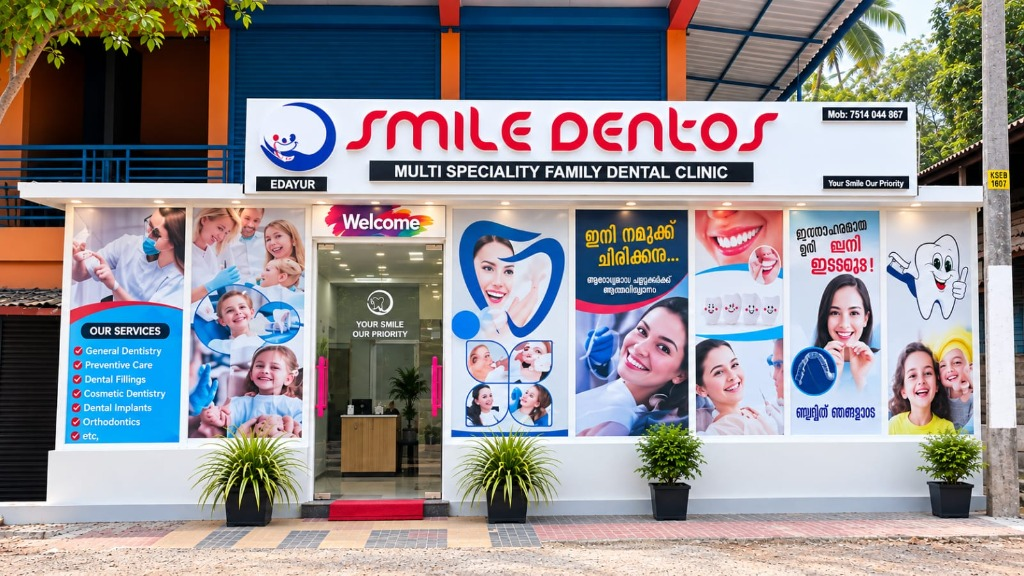
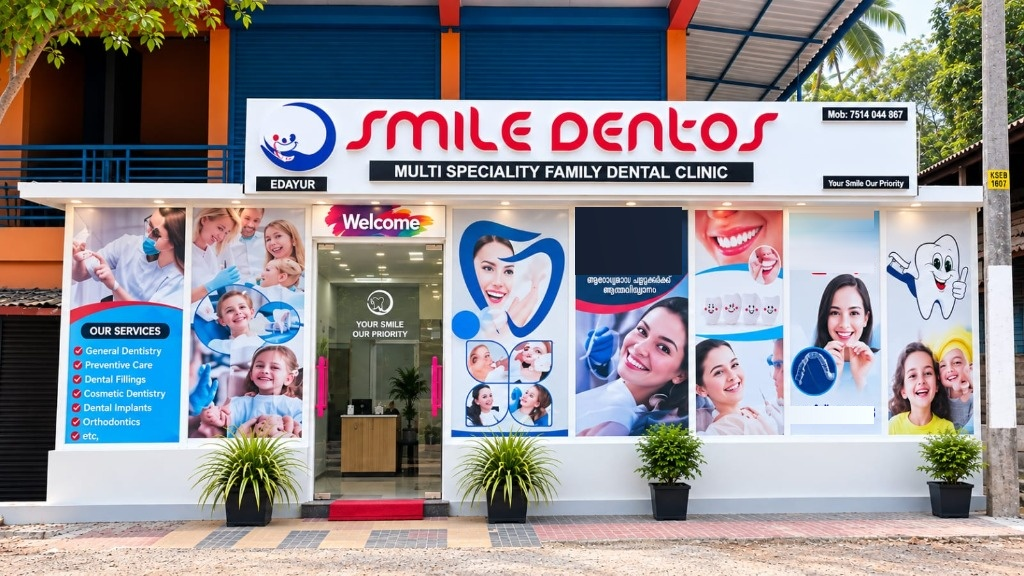
Some doctor recoommended changes

Changed region(s): [[0.5625, 0.3438, 0.6875, 0.5], [0.75, 0.3438, 0.875, 0.5], [0.75, 0.6875, 0.875, 0.75]]

diff --git a/src/components/ServicesSection.tsx b/src/components/ServicesSection.tsx
@@ -121,7 +121,7 @@ const initialServices: ServiceItem[] = [
     id: 'dental-implants',
     title: 'Dental Implants',
     category: 'RESTORATIVE SURGERY',
-    description: 'Our computer-guided implantology ensures sub-millimeter precision, minimal discomfort, and rapid healing for seamless single, multiple, or full-arch restorations.',
+    description: 'Permanent, natural-looking replacement for missing teeth that restores your bite and smile.',
     tags: 'Titanium • Permanent • Predictable',
     image: '/images/service_implants.png',
     imagePosition: 'center 30%',
@@ -131,7 +131,7 @@ const initialServices: ServiceItem[] = [
     id: 'root-canal-treatment',
     title: 'Root Canal Treatment',
     category: 'ENDODONTICS',
-    description: 'Utilizing rotary endodontic instruments and apex locators to eliminate infection painlessly, preserving your natural tooth structure.',
+    description: 'Gentle, painless treatment to relieve toothache and save your infected natural tooth.',
     tags: 'Painless • Safe • Tooth Saving',
     image: '/images/service_endodontics.png',
     imagePosition: 'center 35%',
@@ -141,7 +141,7 @@ const initialServices: ServiceItem[] = [
     id: 'braces-aligners',
     title: 'Braces & Aligners',
     category: 'ORTHODONTICS',
-    description: 'Custom 3D scanned treatment paths provide predictable tooth movement with nearly invisible aligners or precision ceramic brackets.',
+    description: 'Straighten crooked teeth and fix bite issues with clear aligners or modern braces.',
     tags: 'Modern • Comfortable • Predictable',
     image: '/images/service_orthodontics.png',
     imagePosition: 'center 40%',
@@ -151,7 +151,7 @@ const initialServices: ServiceItem[] = [
     id: 'teeth-whitening',
     title: 'Teeth Whitening',
     category: 'COSMETIC DENTISTRY',
-    description: 'Enamel-safe, pH-balanced professional whitening gel activated with cold LED light gives you an instantly radiant smile without tooth sensitivity.',
+    description: 'Safe, fast in-clinic whitening to remove deep stains and brighten your smile.',
     tags: 'Safe • Effective • Long-lasting',
     image: '/images/service_whitening.png',
     imagePosition: 'center 45%',
@@ -161,7 +161,7 @@ const initialServices: ServiceItem[] = [
     id: 'veneers-crowns',
     title: 'Veneers & Crowns',
     category: 'AESTHETIC RESTORATION',
-    description: 'Custom designed to match your facial profile, correcting gaps, chips, uneven edges, and deep discoloration with lifelike translucency.',
+    description: 'Custom porcelain covers that repair chipped, worn, or discolored teeth beautifully.',
     tags: 'Strong • Natural • Long-lasting',
     image: '/images/service_cosmetic_dentistry.png',
     imagePosition: 'center 45%',
@@ -171,7 +171,7 @@ const initialServices: ServiceItem[] = [
     id: 'preventive-family-care',
     title: 'Preventive & Family Care',
     category: 'GENERAL DENTISTRY',
-    description: 'A warm, gentle clinic environment designed to make visits relaxed and positive for children and adults alike.',
+    description: 'Routine checkups, cleanings, and protective care to keep the whole family cavity-free.',
     tags: 'Checkups • Cleanings • Protection',
     image: '/images/service_preventive_family.jpg',
     imagePosition: 'center 25%',
@@ -185,7 +185,7 @@ const additionalServices: ServiceItem[] = [
     id: 'periodontal-gum-surgery',
     title: 'Periodontal Therapy & Gum Surgery',
     category: 'PERIODONTICS',
-    description: 'Comprehensive clinical care for bleeding gums, bone loss, and periodontitis using minimally invasive ultrasonic cleaning, laser sterilization, and regenerative surgical grafting.',
+    description: 'Deep cleaning and gentle gum treatments to stop bleeding, swelling, and tooth loosening.',
     tags: 'Healthy Gums • Deep Care • Protection',
     image: '/images/backup_original/service_periodontal.jpg',
     imagePosition: 'center 35%',
@@ -195,7 +195,7 @@ const additionalServices: ServiceItem[] = [
     id: 'minor-maxillofacial-surgeries',
     title: 'Minor Maxillofacial Surgeries',
     category: 'ORAL SURGERY',
-    description: 'Painless in-office oral surgical procedures performed under profound local anesthesia in sterile operatory suites with fast-healing clinical protocols.',
+    description: 'Safe, comfortable minor oral procedures including wisdom tooth removal with quick recovery.',
     tags: 'Gentle • Precise • Quick Healing',
     image: '/images/service_surgery.png',
     imagePosition: 'center 35%',
@@ -205,7 +205,7 @@ const additionalServices: ServiceItem[] = [
     id: 'full-partial-dentures',
     title: 'Full Dentures & Partial Dentures',
     category: 'PROSTHODONTICS',
-    description: 'Custom-molded dental prosthetics engineered for exceptional comfort, secure retention, and natural aesthetics, restoring full chewing power and youthful contours.',
+    description: 'Comfortable, custom-fitted replacement teeth to restore confident chewing and speaking.',
     tags: 'Custom Fit • Natural • Comfortable',
     image: '/images/service_dentures.jpg',
     imagePosition: 'center 30%',
@@ -215,7 +215,7 @@ const additionalServices: ServiceItem[] = [
     id: 'tmj-treatment-splints',
     title: 'TMJ Treatment & Splints',
     category: 'TMJ & FACIAL PAIN',
-    description: 'Targeted temporomandibular joint evaluation and custom-fabricated splints designed to decompress jaw joints, eliminate morning soreness, and protect teeth from grinding wear.',
+    description: 'Custom night guards and therapy to relieve jaw pain, clicking, and nighttime teeth grinding.',
     tags: 'Pain Relief • Custom Guards • Balance',
     image: '/images/service_tmj.jpg',
     imagePosition: 'center 25%',
@@ -225,7 +225,7 @@ const additionalServices: ServiceItem[] = [
     id: 'pediatric-dental-care',
     title: 'Pediatric Dental Care',
     category: 'PEDIATRIC DENTISTRY',
-    description: 'Compassionate dental care tailored for young smiles in a cheerful, fear-free atmosphere, focusing on cavity prevention, comfortable treatment, and healthy smile development.',
+    description: "Friendly, fear-free dental visits designed to keep children's growing smiles healthy.",
     tags: 'Gentle • Fun • Fear-Free',
     image: '/images/service_pediatric.jpg',
     imagePosition: 'center 25%',
@@ -235,7 +235,7 @@ const additionalServices: ServiceItem[] = [
     id: 'mucosal-pathology-biopsy',
     title: 'Mucosal Pathology & Biopsy Procedures',
     category: 'ORAL PATHOLOGY',
-    description: 'Precise clinical evaluations and minor soft-tissue biopsies for persistent mouth sores, white or red mucosal patches, and oral lesions with dedicated histopathological diagnosis.',
+    description: 'Expert diagnosis and gentle testing for mouth sores, patches, and unusual oral spots.',
     tags: 'Accurate • Early Detection • Safe',
     image: '/images/service_mucosal_pathology.png',
     imagePosition: 'center 35%',
@@ -319,13 +319,8 @@ export const ServicesSection: React.FC<ServicesSectionProps> = ({
               {service.description}
             </p>
 
-            {/* 4 & 5. Bottom Row: Small Lime Indicator + Supporting Text & Bright Lime Pill CTA */}
+            {/* 4. Bottom Row: Bright Lime Pill Action Button */}
             <div className="service-card-desktop-action-row">
-              <div className="service-card-desktop-support">
-                <span className="service-card-lime-dot" />
-                <span className="service-card-support-text">State-of-the-art care</span>
-              </div>
-
               <div
                 className="service-card-book-btn"
                 role="button"
@@ -857,52 +852,26 @@ export const ServicesSection: React.FC<ServicesSectionProps> = ({
 
         /* 3. Service Description in Soft White / Light Grey */
         .service-card-desktop-desc {
-          color: rgba(255, 255, 255, 0.76) !important;
+          color: rgba(255, 255, 255, 0.78) !important;
           font-family: var(--font-main, sans-serif) !important;
-          font-size: 0.86rem !important;
-          line-height: 1.5 !important;
+          font-size: 0.88rem !important;
+          line-height: 1.48 !important;
           margin: 0 0 16px 0 !important;
           display: -webkit-box !important;
-          -webkit-line-clamp: 3 !important;
+          -webkit-line-clamp: 2 !important;
           -webkit-box-orient: vertical !important;
           overflow: hidden !important;
-          min-height: 3.8em !important;
+          min-height: 2.7em !important;
         }
 
-        /* 4 & 5. Bottom Row */
+        /* 4. Bottom Row Action Button */
         .service-card-desktop-action-row {
           display: flex !important;
           align-items: center !important;
-          justify-content: space-between !important;
+          justify-content: flex-end !important;
           gap: 12px !important;
           padding-top: 12px !important;
           border-top: 1px solid rgba(255, 255, 255, 0.09) !important;
-        }
-
-        /* Bottom Supporting Info: Small Lime Dot + Supporting Text */
-        .service-card-desktop-support {
-          display: inline-flex !important;
-          align-items: center !important;
-          gap: 7px !important;
-          min-width: 0 !important;
-        }
-        .service-card-lime-dot {
-          width: 6px !important;
-          height: 6px !important;
-          border-radius: 50% !important;
-          background-color: #DFFF24 !important;
-          display: inline-block !important;
-          flex-shrink: 0 !important;
-          box-shadow: 0 0 6px rgba(223, 255, 36, 0.7) !important;
-        }
-        .service-card-support-text {
-          color: rgba(255, 255, 255, 0.8) !important;
-          font-size: 0.78rem !important;
-          font-weight: 500 !important;
-          letter-spacing: 0.01em !important;
-          white-space: nowrap !important;
-          overflow: hidden !important;
-          text-overflow: ellipsis !important;
         }
 
         /* Bright Lime Pill-Shaped Action Button */

diff --git a/src/components/BranchesSection.tsx b/src/components/BranchesSection.tsx
@@ -150,14 +150,14 @@ const initialBranchesData: BranchCardData[] = [
         caption: 'Modern clinical rooms in Madathil Complex, Mavandiyoor.',
       },
       {
-        url: '/images/service_endodontics.jpg',
-        title: 'Rotary Endodontics & Operatory',
-        caption: 'Painless single-visit microscopic root canal therapy.',
+        url: '/images/branch_edayoor_portrait_1.jpg',
+        title: 'ഇനി നമുക്ക് ചിരിക്കാം',
+        caption: 'വിദഗ്ദ്ധ പരിചരണവും ആത്മവിശ്വാസമുള്ള മനോഹര പുഞ്ചിരിയും.',
       },
       {
-        url: '/images/service_orthodontics.jpg',
-        title: 'Orthodontic & Invisalign Suite',
-        caption: 'Digital aligner scans and smile alignment treatments.',
+        url: '/images/branch_edayoor_portrait_2.jpg',
+        title: 'ഇനി മനോഹരമായ പല്ലുകൾ',
+        caption: '',
       },
       {
         url: '/images/service_surgery.jpg',
@@ -644,7 +644,7 @@ export const BranchesSection: React.FC<BranchesSectionProps> = ({ onOpenBooking 
                   title="Click to view clinic gallery"
                 >
                   <img
-                    src={`${branch.image}?v=4`}
+                    src={`${branch.image}?v=6`}
                     alt={branch.name}
                     style={{
                       width: '100%',
@@ -657,62 +657,65 @@ export const BranchesSection: React.FC<BranchesSectionProps> = ({ onOpenBooking 
                     onMouseLeave={(e) => (e.currentTarget.style.transform = 'scale(1)')}
                   />
 
-                  {/* Gradient vignette for text contrast */}
-                  <div
-                    style={{
-                      position: 'absolute',
-                      inset: 0,
-                      background: 'linear-gradient(to top, rgba(15, 23, 42, 0.72) 0%, rgba(15, 23, 42, 0.1) 50%, transparent 100%)',
-                      pointerEvents: 'none',
-                    }}
-                  />
+                  {/* Gradient vignette & clinic badge overlay (hidden for Edayoor specifically to keep image text-free) */}
+                  {branch.id !== 'edayoor' && (
+                    <>
+                      <div
+                        style={{
+                          position: 'absolute',
+                          inset: 0,
+                          background: 'linear-gradient(to top, rgba(15, 23, 42, 0.72) 0%, rgba(15, 23, 42, 0.1) 50%, transparent 100%)',
+                          pointerEvents: 'none',
+                        }}
+                      />
 
-                  {/* Clinic badge overlay */}
-                  <div
-                    style={{
-                      position: 'absolute',
-                      bottom: '10px',
-                      left: '12px',
-                      right: '12px',
-                      display: 'flex',
-                      alignItems: 'center',
-                      justifyContent: 'space-between',
-                      pointerEvents: 'none',
-                    }}
-                  >
-                    <span
-                      style={{
-                        backgroundColor: 'rgba(15, 23, 42, 0.65)',
-                        backdropFilter: 'blur(8px)',
-                        color: '#FFFFFF',
-                        fontSize: '0.72rem',
-                        fontWeight: 600,
-                        padding: '3px 8px',
-                        borderRadius: '6px',
-                        border: '1px solid rgba(255, 255, 255, 0.2)',
-                      }}
-                    >
-                      {branch.shortName} Dental Center
-                    </span>
+                      <div
+                        style={{
+                          position: 'absolute',
+                          bottom: '10px',
+                          left: '12px',
+                          right: '12px',
+                          display: 'flex',
+                          alignItems: 'center',
+                          justifyContent: 'space-between',
+                          pointerEvents: 'none',
+                        }}
+                      >
+                        <span
+                          style={{
+                            backgroundColor: 'rgba(15, 23, 42, 0.65)',
+                            backdropFilter: 'blur(8px)',
+                            color: '#FFFFFF',
+                            fontSize: '0.72rem',
+                            fontWeight: 600,
+                            padding: '3px 8px',
+                            borderRadius: '6px',
+                            border: '1px solid rgba(255, 255, 255, 0.2)',
+                          }}
+                        >
+                          {branch.shortName} Dental Center
+                        </span>
 
-                    <span
-                      style={{
-                        backgroundColor: 'rgba(255, 255, 255, 0.92)',
-                        color: '#0F172A',
-                        fontSize: '0.7rem',
-                        fontWeight: 700,
-                        padding: '3px 9px',
-                        borderRadius: '9999px',
-                        display: 'inline-flex',
-                        alignItems: 'center',
-                        gap: '4px',
-                        boxShadow: '0 2px 6px rgba(0,0,0,0.2)',
-                      }}
-                    >
-                      <Camera size={12} color="#0F172A" />
-                      <span>Tour Clinic</span>
-                    </span>
-                  </div>
+                        <span
+                          style={{
+                            backgroundColor: 'rgba(255, 255, 255, 0.92)',
+                            color: '#0F172A',
+                            fontSize: '0.7rem',
+                            fontWeight: 700,
+                            padding: '3px 9px',
+                            borderRadius: '9999px',
+                            display: 'inline-flex',
+                            alignItems: 'center',
+                            gap: '4px',
+                            boxShadow: '0 2px 6px rgba(0,0,0,0.2)',
+                          }}
+                        >
+                          <Camera size={12} color="#0F172A" />
+                          <span>Tour Clinic</span>
+                        </span>
+                      </div>
+                    </>
+                  )}
                 </div>
 
                 {/* 7. Address & Working Hours Block */}
@@ -1122,7 +1125,7 @@ export const BranchesSection: React.FC<BranchesSectionProps> = ({ onOpenBooking 
                   style={{
                     width: '100%',
                     height: '100%',
-                    objectFit: 'cover',
+                    objectFit: 'contain',
                   }}
                 />
 
@@ -1185,9 +1188,11 @@ export const BranchesSection: React.FC<BranchesSectionProps> = ({ onOpenBooking 
                 <p style={{ margin: 0, fontWeight: 600, fontSize: '0.92rem', color: '#FFFFFF' }}>
                   {activeGallery.photos[activeGallery.currentIndex].title}
                 </p>
-                <p style={{ margin: '3px 0 0.85rem 0', fontSize: '0.8rem', color: '#94A3B8' }}>
-                  {activeGallery.photos[activeGallery.currentIndex].caption}
-                </p>
+                {activeGallery.photos[activeGallery.currentIndex].caption && (
+                  <p style={{ margin: '3px 0 0.85rem 0', fontSize: '0.8rem', color: '#94A3B8' }}>
+                    {activeGallery.photos[activeGallery.currentIndex].caption}
+                  </p>
+                )}
 
                 {/* Thumbnail strip */}
                 <div

diff --git a/src/components/TransformSection.tsx b/src/components/TransformSection.tsx
@@ -73,32 +73,6 @@ export const TransformSection: React.FC<TransformSectionProps> = ({ onOpenBookin
             <br />
             <span>art </span>
             <span className="transform-highlight" style={{ color: 'var(--color-teal-300)' }}>Dental Care</span>
-            {/* Inline Horizontal Capsule Aligner Pill (Strictly matching Frame 04) */}
-            <span
-              style={{
-                display: 'inline-block',
-                verticalAlign: 'middle',
-                marginLeft: 'clamp(0.4rem, 1.2vw, 0.85rem)',
-                width: 'clamp(54px, 6.5vw, 84px)',
-                height: 'clamp(28px, 3.5vw, 44px)',
-                borderRadius: 'var(--radius-pill)',
-                overflow: 'hidden',
-                border: '2px solid rgba(255, 255, 255, 0.4)',
-                boxShadow: '0 4px 14px rgba(0, 0, 0, 0.25)',
-                transform: 'translateY(-2px)',
-              }}
-            >
-              <img
-                src="/images/aligner_pill.jpg"
-                alt="Clear aligner smile pill"
-                style={{
-                  width: '100%',
-                  height: '100%',
-                  objectFit: 'cover',
-                  objectPosition: 'center 40%',
-                }}
-              />
-            </span>
           </motion.h2>
         </div>
 
